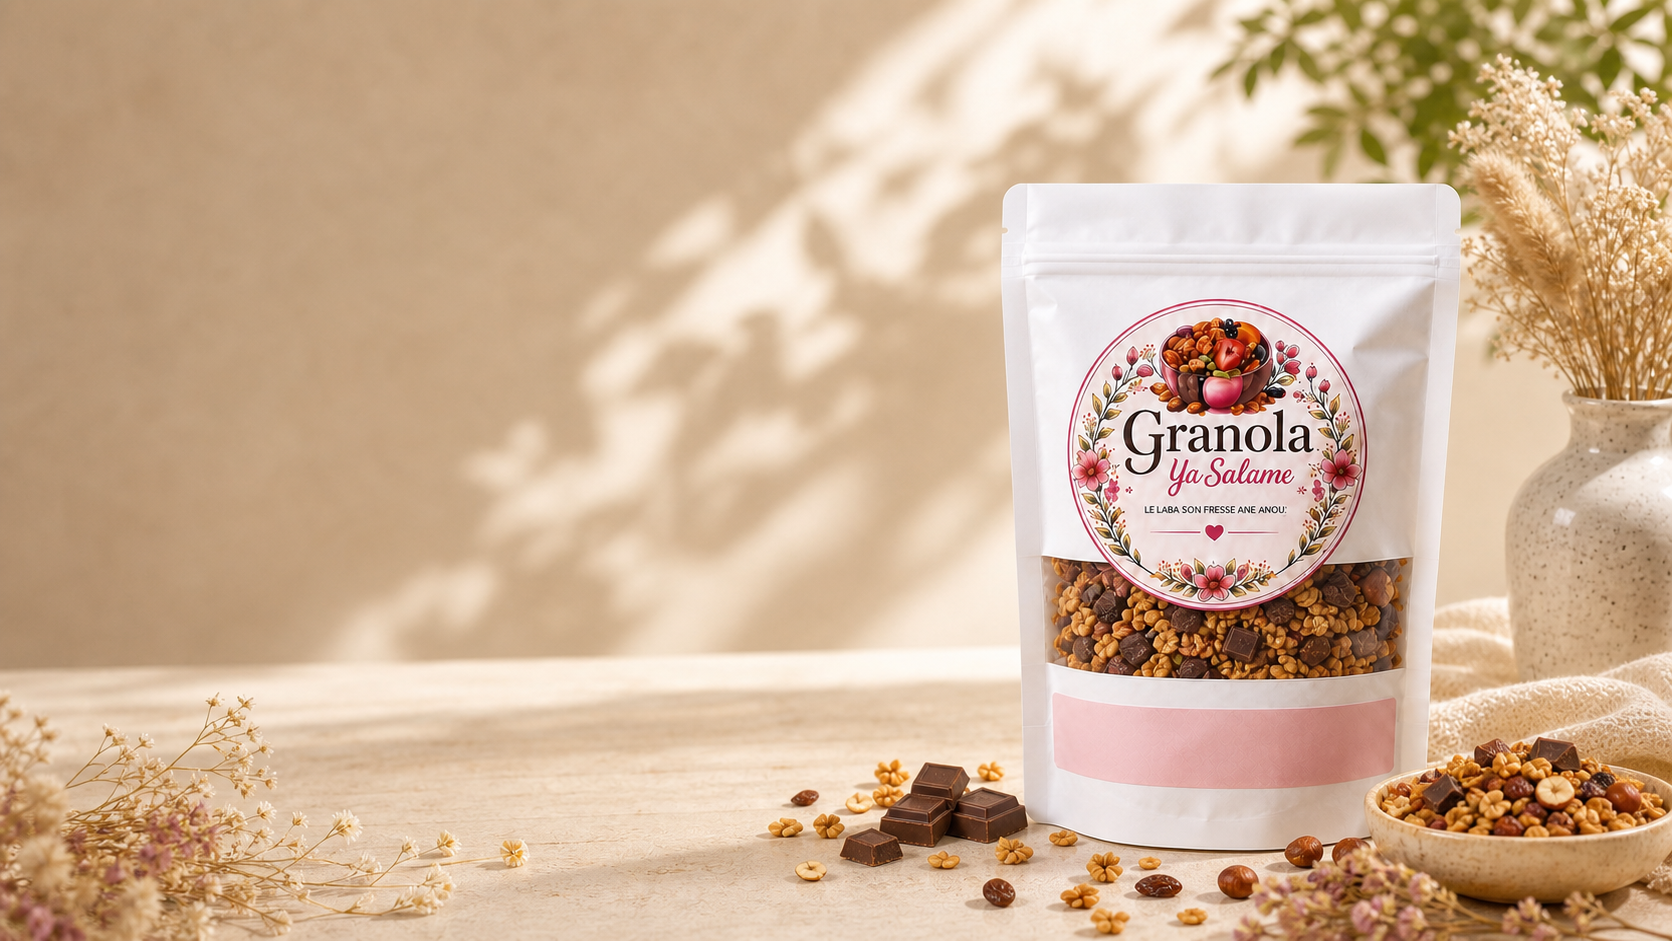
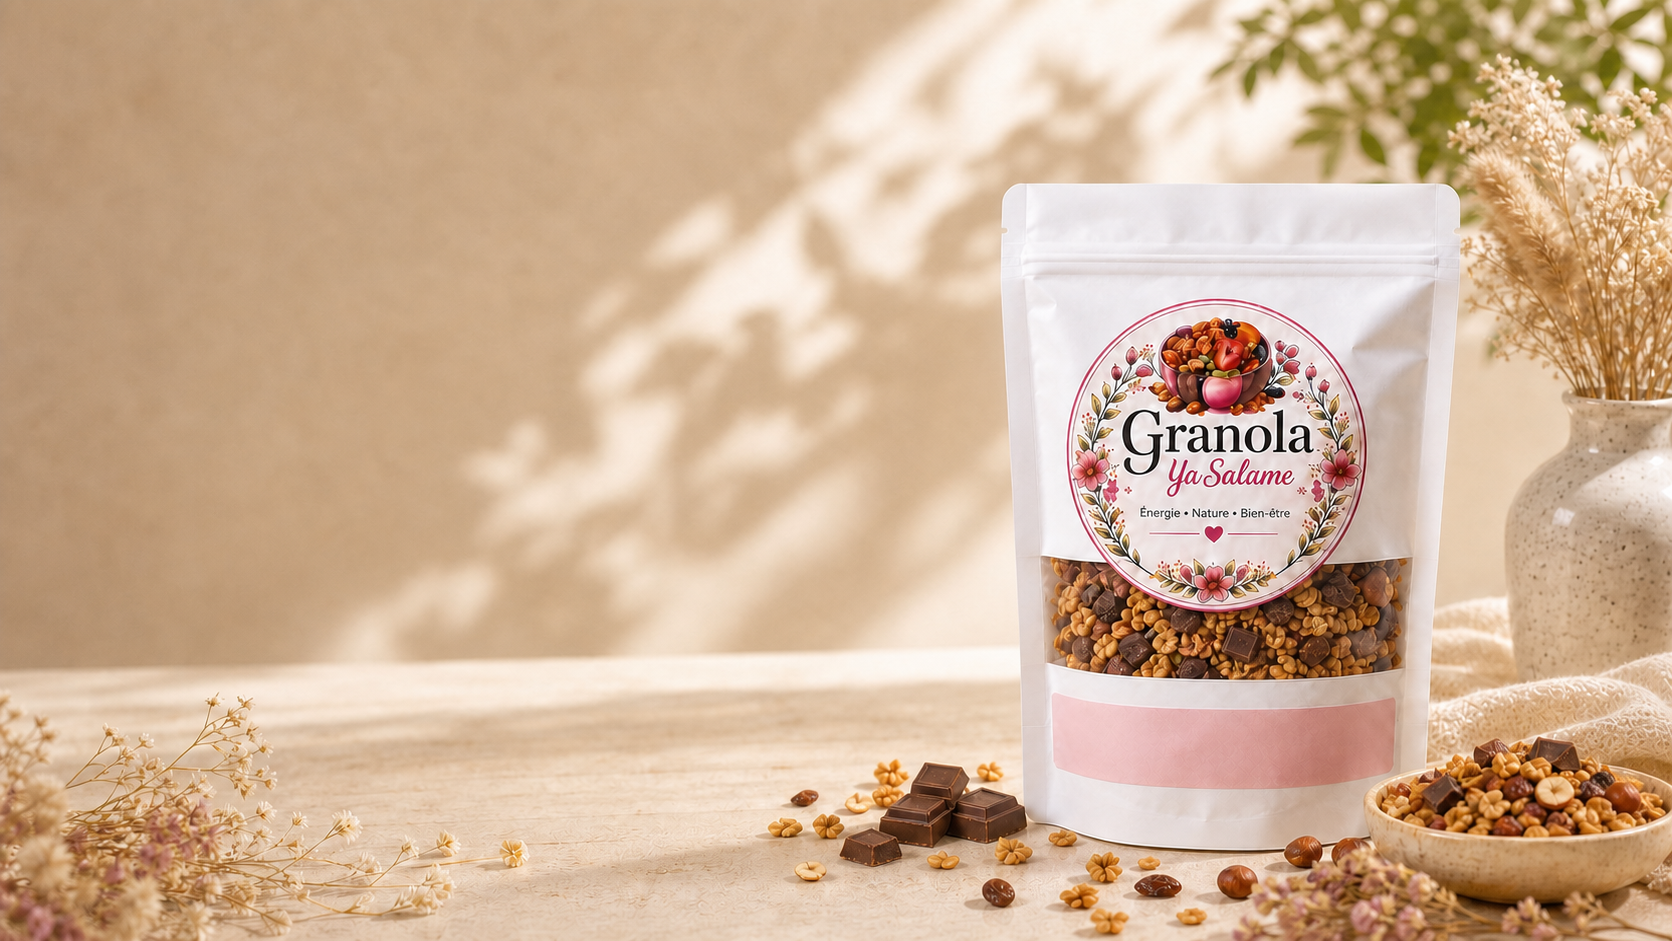
feat: allergies field in order form + refreshed Premium/Classique copy
- Add optional "Allergies" input so clients can flag ingredient allergies (already wired into the WhatsApp message)
- Rewrite Premium & Classique taglines, descriptions and ingredient lists (75/25 and 50/50 splits)
- Update hero and product packshot images

diff --git a/src/lib/catalog.ts b/src/lib/catalog.ts
@@ -34,10 +34,10 @@ export const products: Product[] = [
     subtitle: "Fruits Secs & Graines",
     img: "/images/produit-2.png",
     alt: "Granola Premium aux amandes, noix de cajou, pistaches, noisettes et graines — Granola Ya Salame",
-    tagline: "Quand le granola devient une expérience.",
-    desc: "Notre fierté. Des ingrédients rares, triés un par un, et des saveurs complexes qui se révèlent à chaque bouchée. Croustillant jusqu'à la dernière cuillère — pour celles et ceux qui ne font aucun compromis sur la qualité.",
+    tagline: "Le trésor de la gamme : 75% de fruits secs nobles.",
+    desc: "Conçu pour les plus exigeants : nous avons inversé les règles — seulement 25% d'avoine et 75% d'ingrédients de prestige. Une véritable explosion de croquant et une densité nutritionnelle exceptionnelle dès la première cuillère.",
     idealWith: "yaourt grec, lait d'amande, fruits exotiques",
-    ingredients: "Flocons d'avoine · Noix de cajou & pécan · Fruits secs premium · Miel naturel · Graines rares",
+    ingredients: "Flocons d'avoine (25%) · Noix de cajou & pécan · Amandes, noisettes & pistaches · Graines rares (chia, courge, tournesol, sésame) · Miel naturel",
     priceNote: "240 DH le kilo, parce qu'il y a deux fois plus dedans : pistaches, noisettes et noix de cajou — les fruits secs les plus chers — plus cinq graines différentes. Vous ne payez pas une marque, vous payez ce que vous croquez.",
     badge: { text: "Premium", bg: "bg-secondary" },
     prices: [["250g", "65 DH", "79 DH"], ["500g", "120 DH", "145 DH"], ["750g", "185 DH", "219 DH"], ["1 Kg", "240 DH", "290 DH"]],
@@ -71,10 +71,10 @@ export const products: Product[] = [
     name: "Granola Classique",
     img: "/images/produit-4.png",
     alt: "Granola classique avoine, amandes, noix, raisins secs et graines — Granola Ya Salame",
-    tagline: "Le retour à l'essentiel.",
-    desc: "Flocons dorés, graines croquantes, saveur authentique. Le Granola Classique, c'est la base parfaite — celle qui se marie avec tout et qui ne déçoit jamais. Simple, honnête, délicieux, et jamais trop sucré.",
-    idealWith: "lait, yaourt, fruits rouges, miel",
-    ingredients: "Flocons d'avoine · Noix & amandes · Graines de tournesol · Miel naturel · Noix de coco",
+    tagline: "L'équilibre quotidien : 50% avoine, 50% fruits secs & graines.",
+    desc: "La recette traditionnelle et réconfortante par excellence. Un équilibre parfait de 50% de flocons d'avoine et 50% de fruits secs et graines — la base idéale de votre routine bien-être au quotidien.",
+    idealWith: "yaourt, smoothies, à partager en famille",
+    ingredients: "Flocons d'avoine (50%) · Amandes, noix & noix de cajou · Pistaches & noisettes · Raisins secs · Graines (tournesol, courge, sésame) · Miel naturel",
     badge: null,
     prices: [["250g", "45 DH", "55 DH"], ["500g", "80 DH", "95 DH"], ["750g", "115 DH", "135 DH"], ["1 Kg", "150 DH", "179 DH"]],
   },

diff --git a/src/components/order-form.tsx b/src/components/order-form.tsx
@@ -43,8 +43,9 @@ export default function OrderForm() {
       `📱 Téléphone : ${v("phone")}\n` +
       `📍 Ville : ${v("city")}\n` +
       `🥣 Saveur : ${v("flavor")}\n` +
-      `⚖ Poids & prix : ${v("variant")}\n\n` +
-      `Merci de me confirmer la disponibilité et le total. 🙏`;
+      `⚖ Poids & prix : ${v("variant")}\n` +
+      (v("allergies") ? `⚠ Allergies : ${v("allergies")}\n` : "") +
+      `\nMerci de me confirmer la disponibilité et le total. 🙏`;
     window.open(waLink(msg), "_blank", "noopener");
   }
 
@@ -106,6 +107,12 @@ export default function OrderForm() {
         {selected?.prices && (
           <p className="text-muted text-[.78rem] mt-1.5">Prix dégressifs : plus c&apos;est grand, plus c&apos;est avantageux 😉</p>
         )}
+      </div>
+
+      <div className="mt-4 mb-2">
+        <label htmlFor="of-allergies" className="block font-semibold text-[.9rem] mb-1.5">Allergies <span className="text-muted font-normal">(optionnel)</span></label>
+        <input id="of-allergies" name="allergies" type="text" placeholder="Ex. fruits à coque, sésame…" className={field} />
+        <p className="text-muted text-[.78rem] mt-1.5">Allergique à un ingrédient ? Indiquez-le, on en tient compte pour votre commande.</p>
       </div>
 
       <button type="submit" className={btnClass("whatsapp", "lg", "w-full mt-3")}>
